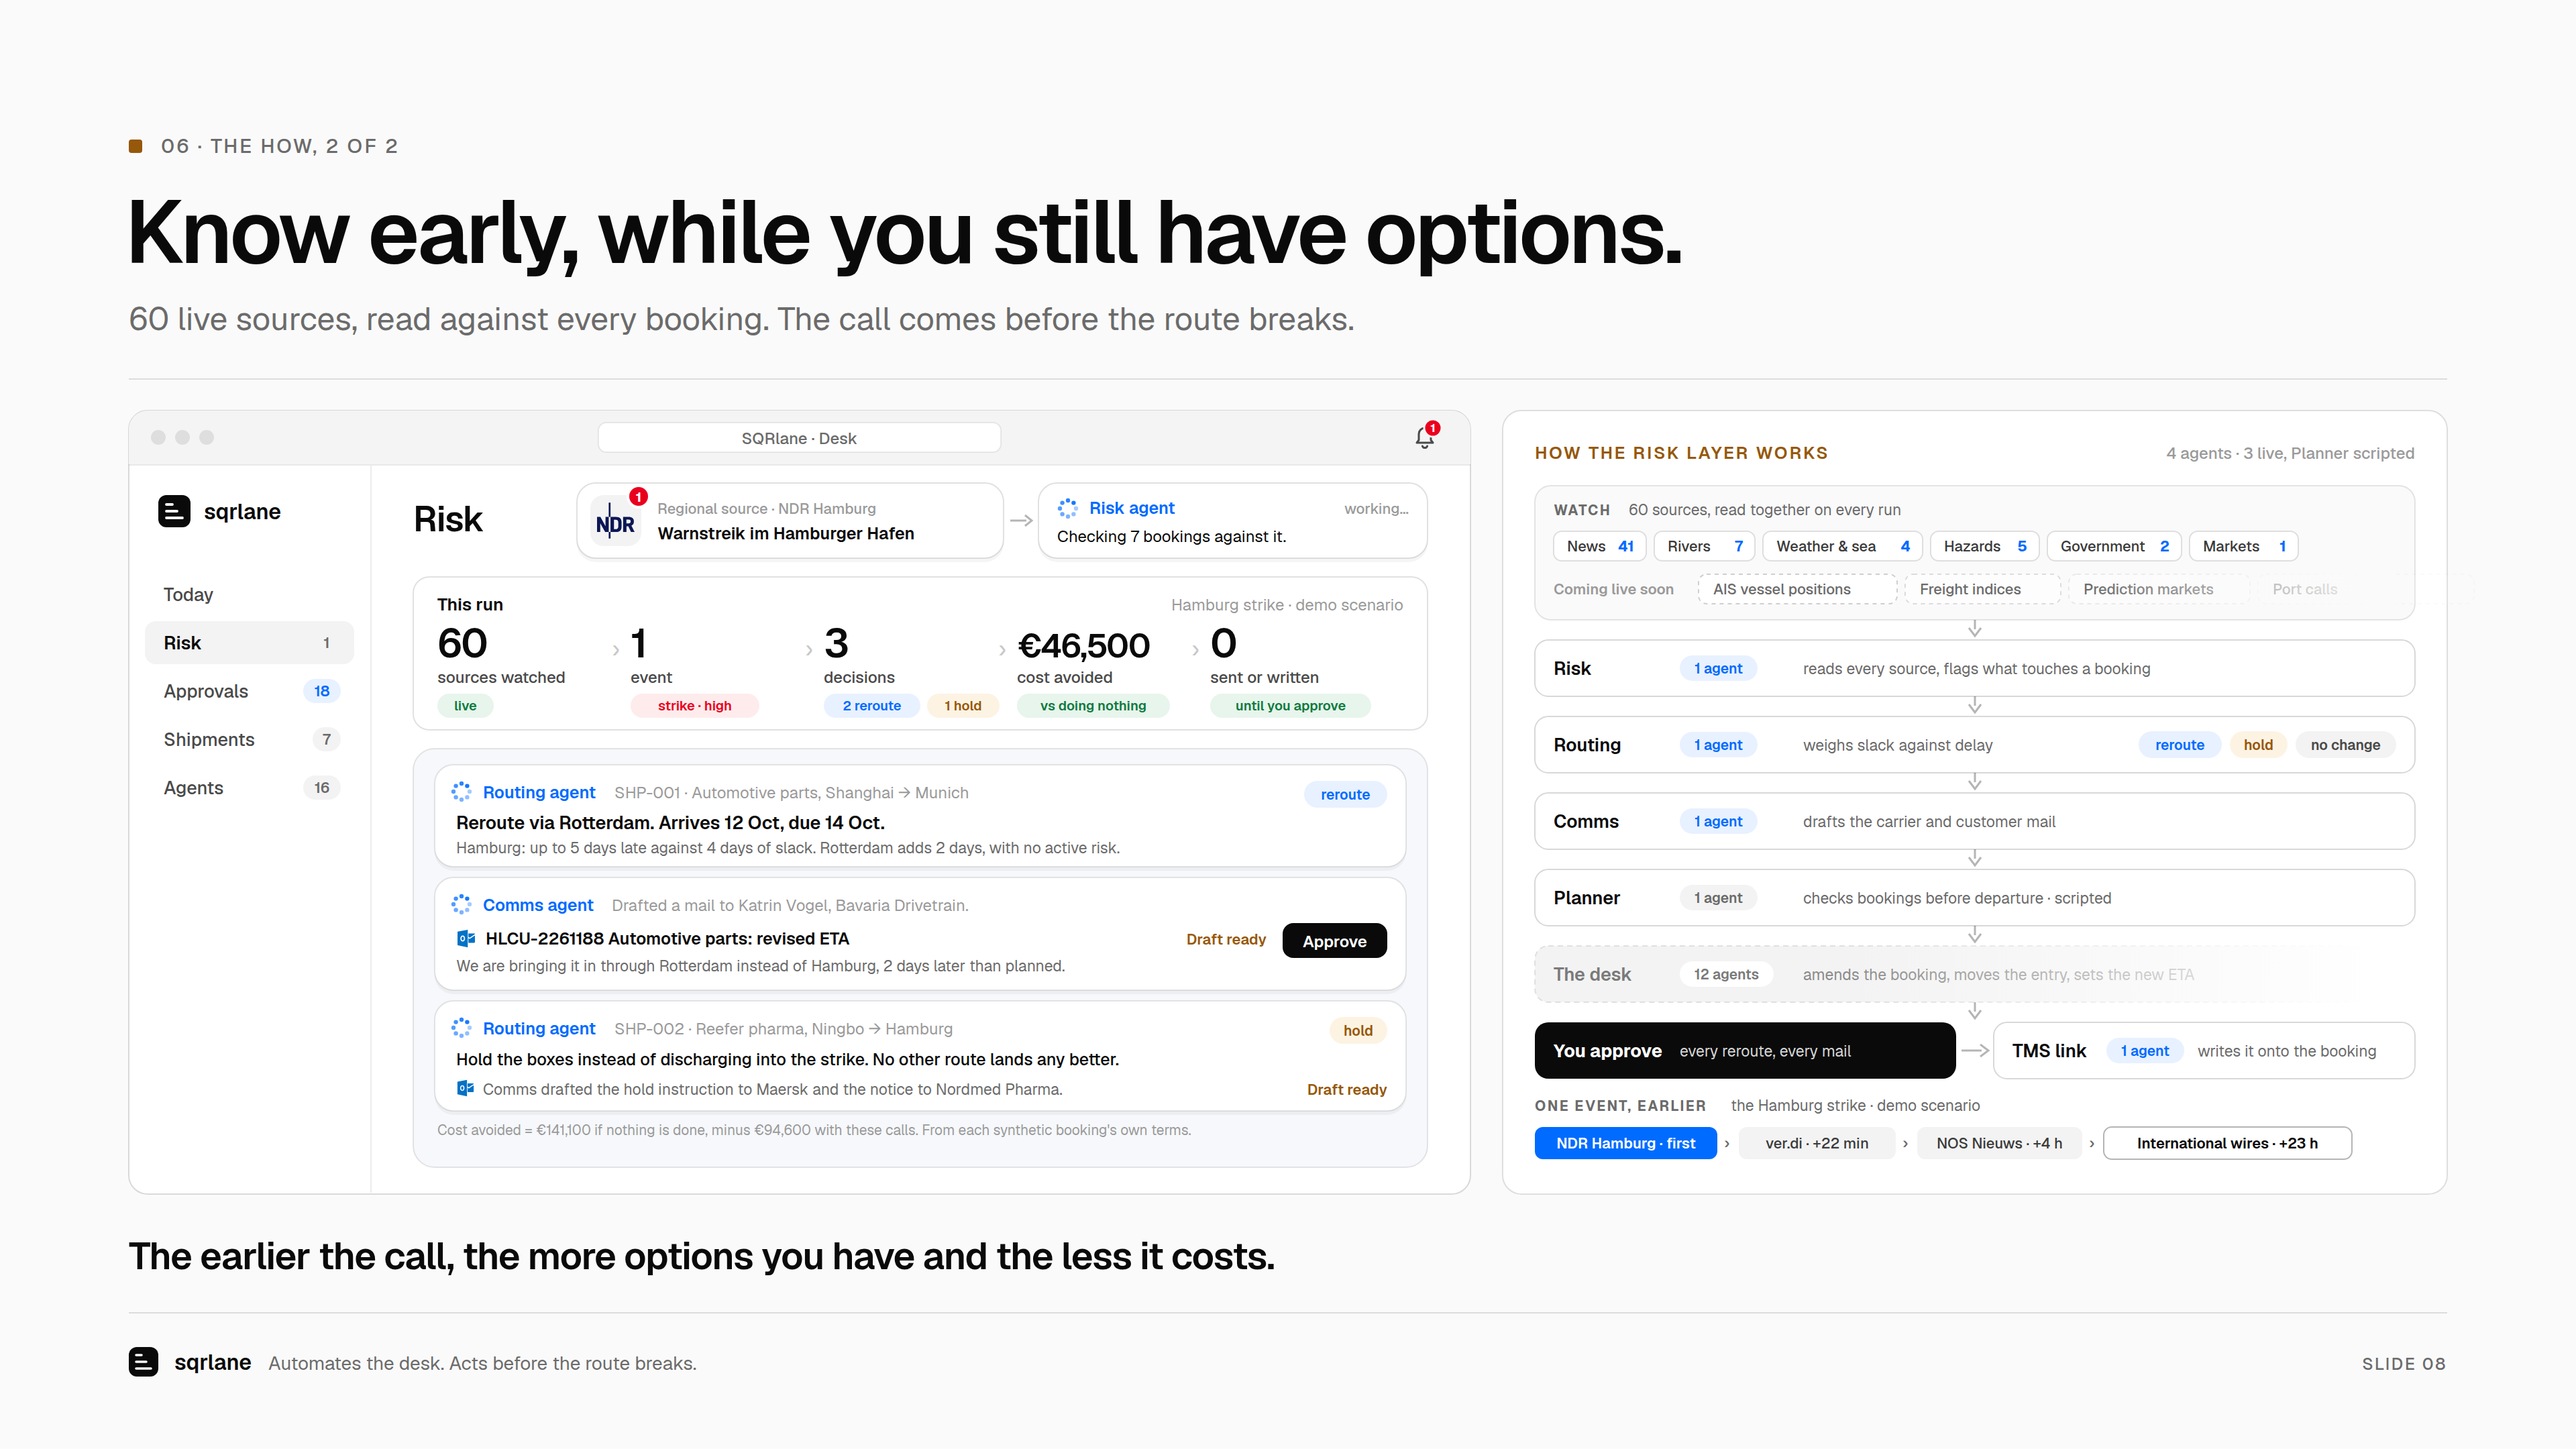
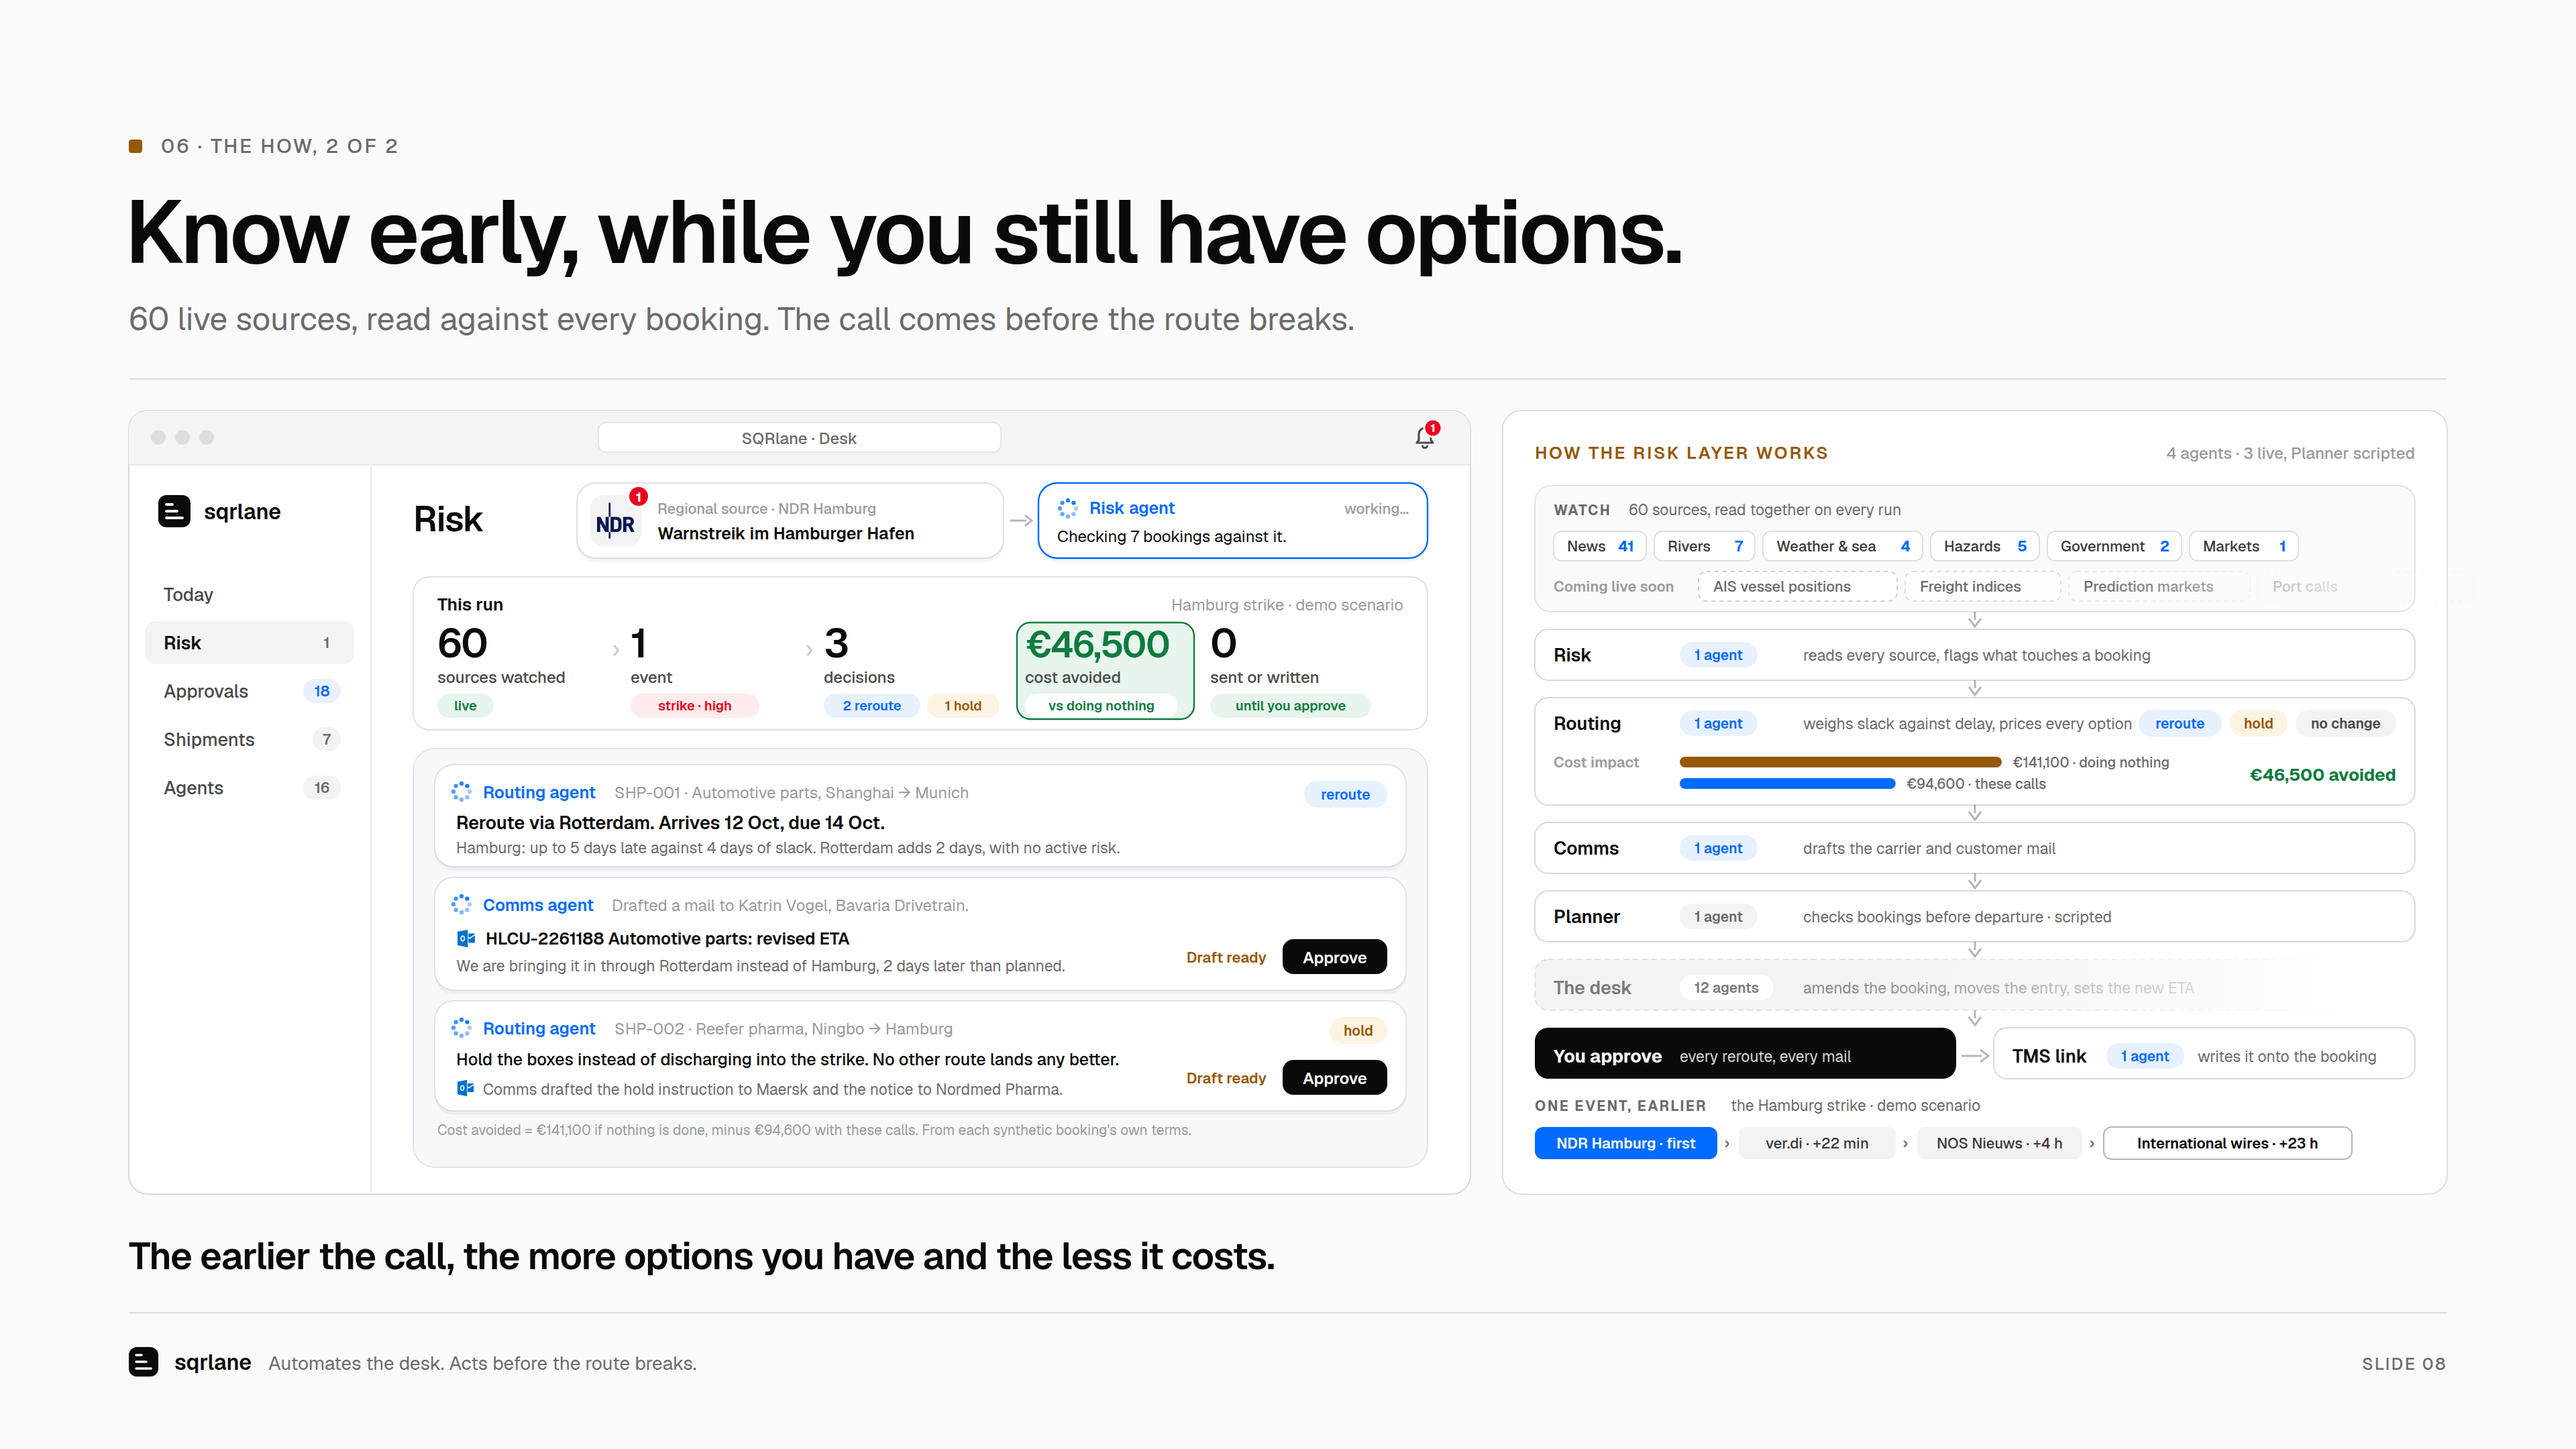
Deck v2 slide 08: lead with the cost avoided, highlight the working agent, align the drafts, add the cost impact
Claude-Session: https://claude.ai/code/session_014BsH9ow2RbGmbV9G28PBg8

diff --git a/deck/v2/build_08.py b/deck/v2/build_08.py
@@ -122,6 +122,7 @@ s.line(ax, PT + PH_ / 2, ax + 12, PT + PH_ / 2, INK, 0.3, 1.5)
 s.raw(f'<path d="M{ax+11} {PT+PH_/2-4} L{ax+16} {PT+PH_/2} L{ax+11} {PT+PH_/2+4}" stroke="{INK}" stroke-opacity="0.3" stroke-width="1.5" fill="none"/>')
 s.g("popup-agent")
 soft_card(P2X, PT, P2W, PH_, 14)
+s.R(P2X, PT, P2W, PH_, "none", 14, f' stroke="{BLUE}" stroke-width="1.2"')
 agent_mark(P2X + 22, PT + 19, 6)
 s.T(P2X + 38, PT + 23, "Risk agent", 12.5, 600, BLUE)
 s.T(P2X + P2W - 14, PT + 23, "working…", 11, 500, GREY, anchor="end")
@@ -142,15 +143,17 @@ s.T(MX + 18, OY + 25, "This run", 13, 600)
 s.T(MX + MW - 18, OY + 25, "Hamburg strike · demo scenario", 12, 400, GREY, anchor="end")
 sw_ = (MW - 36) / 5
 for k, (n, lab, tag, tf, ti) in enumerate(STEPS):
-    x = MX + 18 + k * sw_
-    s.T(x, OY + 60, n, 25 if len(n) > 3 else 30, 600, ls=-1)
+    x = MX + 18 + k * sw_ + (6 if n.startswith("€") else 0)
+    if n.startswith("€"):
+        s.R(x - 6, OY + 34, sw_ - 12, OH - 42, GREEN_BG, 10, f' stroke="{GREEN}" stroke-width="1.2"')
+    s.T(x, OY + 60, n, 27 if len(n) > 3 else 30, 600, GREEN if n.startswith("€") else INK, ls=-1)
     s.T(x, OY + 79, lab, 12, 500, "#4A4A4A")
     if tag:
-        pill(x, OY + 87, tag, tf, ti, anchor="start", size=10, h=18)
+        pill(x, OY + 87, tag, CARD if n.startswith("€") else tf, ti, anchor="start", size=10, h=18)
     else:                                              # the three decisions, split
         w1 = pill(x, OY + 87, "2 reroute", BLUE_BG, BLUE, anchor="start", size=10, h=18)
         pill(x + w1 + 5, OY + 87, "1 hold", AMBR_BG, AMBR, anchor="start", size=10, h=18)
-    if k < 4:
+    if k < 4 and not STEPS[k + 1][0].startswith("€") and not n.startswith("€"):
         s.T(x + sw_ - 14, OY + 60, "›", 18, 400, "#C8C8C8")
 s.end()
 
@@ -178,9 +181,12 @@ s.T(MX + 148, cy + 25, "Drafted a mail to Katrin Vogel, Bavaria Drivetrain.", 12
 mark("Outlook", MX + 32, cy + 38, 15)
 s.T(MX + 54, cy + 50, "HLCU-2261188 Automotive parts: revised ETA", 12.5, 600)
 s.T(MX + 32, cy + 70, "We are bringing it in through Rotterdam instead of Hamburg, 2 days later than planned.", 11.5, 400, MUT)
-s.T(MX + 16 + BWb - 104, cy + 50, "Draft ready", 11, 600, AMBR, anchor="end")
-s.R(MX + 16 + BWb - 92, cy + DHh - 50, 78, 26, INK, 8)
-s.T(MX + 16 + BWb - 53, cy + DHh - 32, "Approve", 12, 600, CARD, anchor="middle")
+def draft_gate(top, h):
+    by = top + h - 38
+    s.R(MX + 16 + BWb - 92, by, 78, 26, INK, 8)
+    s.T(MX + 16 + BWb - 53, by + 18, "Approve", 12, 600, CARD, anchor="middle")
+    s.T(MX + 16 + BWb - 104, by + 17.5, "Draft ready", 11, 600, AMBR, anchor="end")
+draft_gate(cy, DHh)
 cy += DHh + 8
 # SHP-002: the hold - the call with no good option
 soft_card(MX + 16, cy, BWb, 82, 14, op=0.10)
@@ -191,7 +197,7 @@ pill(MX + 16 + BWb - 14, cy + 12, "hold", AMBR_BG, AMBR)
 s.T(MX + 32, cy + 48, "Hold the boxes instead of discharging into the strike. No other route lands any better.", 12.5, 500, INK)
 mark("Outlook", MX + 32, cy + 58, 14)
 s.T(MX + 52, cy + 70, "Comms drafted the hold instruction to Maersk and the notice to Nordmed Pharma.", 11.5, 400, MUT)
-s.T(MX + 16 + BWb - 14, cy + 70, "Draft ready", 11, 600, AMBR, anchor="end")
+draft_gate(cy, 82)
 cy += 90
 s.T(MX + 18, cy + 10, "Cost avoided = €141,100 if nothing is done, minus €94,600 with these calls. From each synthetic booking's own terms.", 10.5, 400, GREY)
 s.end()
@@ -226,7 +232,7 @@ def step(y, name, n, what, h=44, fill=CARD, ink=INK, sub=MUT, stroke=0.16, nx=No
 y = TOP + 56
 # WATCH: the 60 live sources by family, then what comes next, fading out
 s.g("watch")
-s.R(hx, y, hw, 100, BG, 12, f' stroke="{INK}" stroke-opacity="0.10"')
+s.R(hx, y, hw, 94, BG, 12, f' stroke="{INK}" stroke-opacity="0.10"')
 s.T(hx + 14, y + 22, "WATCH", 10.5, 700, MUT, ls=1.2)
 s.T(hx + 70, y + 22, "60 sources, read together on every run", 11.5, 400, MUT)
 fx = hx + 14
@@ -237,47 +243,56 @@ for fam, n in (("News", 41), ("Rivers", 7), ("Weather & sea", 4), ("Hazards", 5)
     s.T(fx + 10, y + 49, lab, 11, 500, "#3A3A3A")
     s.T(fx + w - 9, y + 49, str(n), 11, 700, BLUE, anchor="end")
     fx += w + 6
-s.T(hx + 14, y + 81, "Coming live soon", 11, 600, GREY)
+s.T(hx + 14, y + 79, "Coming live soon", 11, 600, GREY)
 fx = hx + 122
 for k, nxt in enumerate(("AIS vessel positions", "Freight indices", "Prediction markets", "Port calls", "")):
     op = (0.85, 0.6, 0.38, 0.2, 0.08)[k]
     w = round(len(nxt) * 6.3 + 22) if nxt else 70
-    s.R(fx, y + 66, w, 22, CARD, 6, f' stroke="{INK}" stroke-opacity="{0.22 * op:.2f}" stroke-dasharray="3 3" fill-opacity="{op:.2f}"')
-    if nxt: s.T(fx + 11, y + 81, nxt, 11, 500, "#6B6B6B")
+    s.R(fx, y + 64, w, 22, CARD, 6, f' stroke="{INK}" stroke-opacity="{0.22 * op:.2f}" stroke-dasharray="3 3" fill-opacity="{op:.2f}"')
+    if nxt: s.T(fx + 11, y + 79, nxt, 11, 500, "#6B6B6B")
     fx += w + 6
 s.raw('<defs><linearGradient id="soon-fade" x1="0" y1="0" x2="1" y2="0">'
       f'<stop offset="0.55" stop-color="{BG}" stop-opacity="0"/><stop offset="1" stop-color="{BG}" stop-opacity="1"/>'
       '</linearGradient></defs>')
-s.R(hx + 122, y + 64, hw - 136, 26, "url(#soon-fade)")
+s.R(hx + 122, y + 62, hw - 136, 26, "url(#soon-fade)")
 s.end()
-y += 100; arrow(y, y + 12); y += 15
+y += 94; arrow(y, y + 11); y += 13
 
 # every agent step on the same grid: name, count, what it does
 NX = hx + 108
-ROWH = 42
-def row(name, n, what, grp, chip=None, right=None):
+ROWH = 38
+def row(name, n, what, grp, chip=None, right=None, h=None):
     global y
     s.g(grp)
-    s.R(hx, y, hw, ROWH, CARD, 10, f' stroke="{INK}" stroke-opacity="0.16"')
-    s.T(hx + 14, y + 26, name, 13.5, 600)
-    cw = count_chip(NX, y + 11.5, n, *(chip or ()))
-    s.T(NX + 92, y + 25.5, what, 11.5, 400, MUT)
+    s.R(hx, y, hw, h or ROWH, CARD, 10, f' stroke="{INK}" stroke-opacity="0.16"')
+    s.T(hx + 14, y + 24, name, 13.5, 600)
+    cw = count_chip(NX, y + 9.5, n, *(chip or ()))
+    s.T(NX + 92, y + 23.5, what, 11.5, 400, MUT)
     if right: right(y)
     s.end()
-    y += ROWH
+    y += h or ROWH
 def outcomes(yy):
     ox = hx + hw - 14
     for lab, f, i in (("no change", GREY_BG, "#4A4A4A"), ("hold", AMBR_BG, AMBR), ("reroute", BLUE_BG, BLUE)):
-        ox -= pill(ox, yy + 11, lab, f, i) + 6
+        ox -= pill(ox, yy + 9, lab, f, i) + 6
 
 row("Risk", "1 agent", "reads every source, flags what touches a booking", "risk-agent")
-arrow(y, y + 12); y += 15
-row("Routing", "1 agent", "weighs slack against delay", "routing-agent", right=outcomes)
-arrow(y, y + 12); y += 15
+arrow(y, y + 11); y += 13
+def cost_impact(yy):
+    bx0, bw0 = NX, 240
+    s.T(hx + 14, yy + 52, "Cost impact", 11, 600, GREY)
+    for k, (lab, v, col) in enumerate((("doing nothing", 141100, AMBR), ("these calls", 94600, BLUE))):
+        by = yy + 44 + k * 16
+        s.R(bx0, by, bw0 * v / 141100, 8, col, 4)
+        s.T(bx0 + bw0 * v / 141100 + 8, by + 8, f"€{v:,} · {lab}", 10.5, 500, MUT)
+    s.T(hx + hw - 14, yy + 62, "€46,500 avoided", 13, 700, GREEN, anchor="end")
+row("Routing", "1 agent", "weighs slack against delay, prices every option", "routing-agent",
+    right=lambda yy: (outcomes(yy), cost_impact(yy)), h=80)
+arrow(y, y + 11); y += 13
 row("Comms", "1 agent", "drafts the carrier and customer mail", "comms-agent")
-arrow(y, y + 12); y += 15
+arrow(y, y + 11); y += 13
 row("Planner", "1 agent", "checks bookings before departure · scripted", "planner-agent", chip=(GREY_BG, "#6B6B6B"))
-arrow(y, y + 12); y += 15
+arrow(y, y + 11); y += 13
 
 # the desk: slide 07, faded here as the risk layer was there
 s.g("the-desk")
@@ -290,7 +305,7 @@ s.raw('<defs><linearGradient id="desk-fade" x1="0" y1="0" x2="1" y2="0">'
       '</linearGradient></defs>')
 s.R(hx - 2, y - 2, hw + 4, ROWH + 4, "url(#desk-fade)")
 s.end()
-y += ROWH; arrow(y, y + 12); y += 15
+y += ROWH; arrow(y, y + 11); y += 13
 
 s.g("gate-and-record")
 GW2 = (hw - 28) / 2

diff --git a/deck/v2/HANDOFF.md b/deck/v2/HANDOFF.md
@@ -80,6 +80,12 @@ AIS vessel positions, freight indices, prediction markets, port calls - as dashe
 fading out; then Risk, Routing, Comms, Planner (scripted) on one uniform grid; the desk
 faded; You approve → TMS link; the detection trail (demo scenario).
 
+Third pass (owner's notes): the €46,500 cell leads - its own light green box with a thin
+green line, the figure in green; the working Risk agent pop-up has a thin blue line; both
+drafts end in the same "Draft ready" + Approve pair, aligned; the Routing row on the right
+carries the **cost impact** as two bars (€141,100 doing nothing, €94,600 these calls,
+€46,500 avoided), because the Routing agent prices every option.
+
 "Draft, not sent" now reads "Draft ready" on slides 07 and 08, on the owner's instruction;
 the Approve button still carries the gate, and nothing is ever sent.
 
